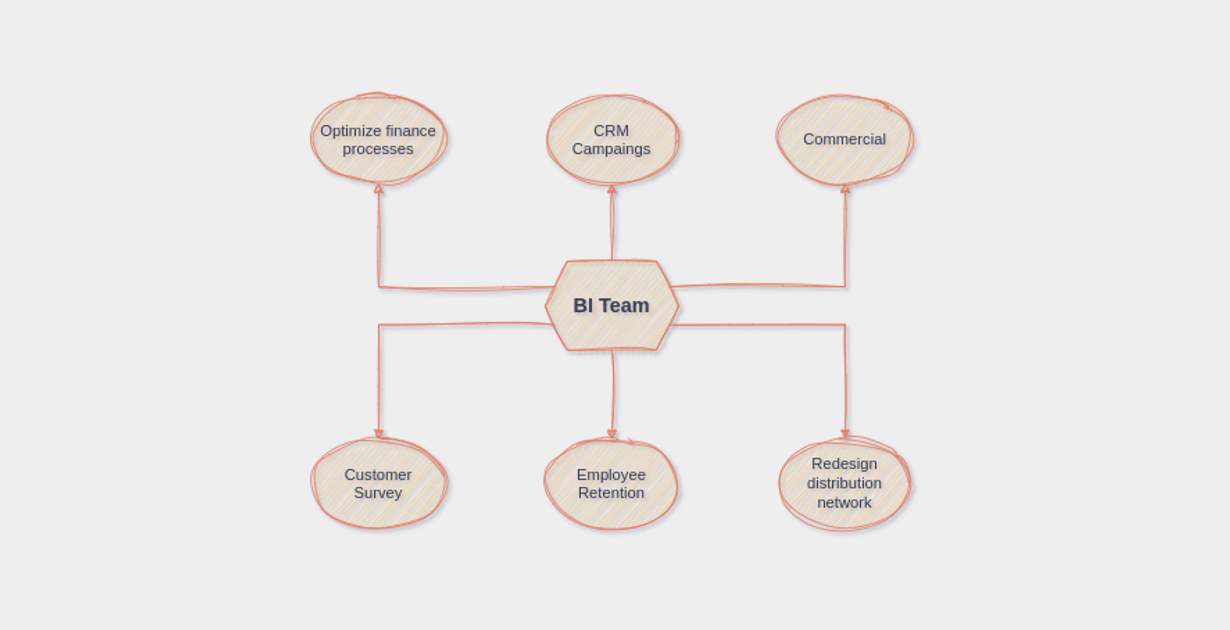
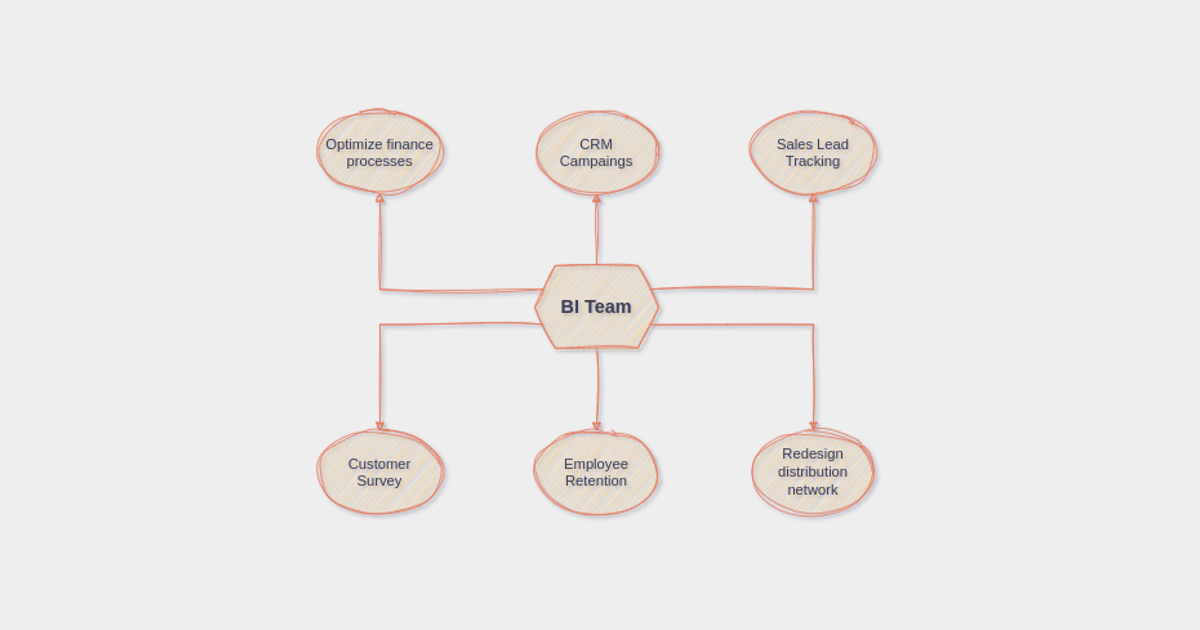
Fix 3rd post image and text

diff --git a/_site/assets/js/lunr/lunr-store.js b/_site/assets/js/lunr/lunr-store.js
@@ -12,7 +12,7 @@ var store = [{
         "teaser": null
       },{
         "title": "Increasing the reputation of Business Intelligence teams within an organization",
-        "excerpt":"Business intelligence (BI) teams play a crucial role in helping organizations make informed decisions and achieve their goals. However, establishing and maintaining a strong BI team can be challenging. Here are a few basic tips for establishing and increasing the reputation of BI teams within an organization:   Clearly define the team’s mandate and responsibilities  It is important that the BI team’s mandate and responsibilities are clearly defined and understood by all stakeholders. This will help the team focus on its core objectives and deliver value to the organization. It can play cruial role to communicate efficiently the mission of the team within the organization.           Example: The BI team’s mandate might be to act as a data hub and support initiatives regardless of teams invloved. Alternatively, it can support specific team(s) because of complex data or lack of analysis skills.   Build strong relationships with other teams  BI teams often work with a variety of teams within an organization, such as sales, marketing, and operations. Building strong relationships with these teams can help the BI team understand their needs and priorities, and ensure that their work is aligned with the organization’s goals.           Clearly communicate the value of the business intelligence team’s work: Make sure other teams understand how the insights and data provided by the team can help them achieve their goals and make better decisions.            Foster collaboration: Encourage members of the team to work closely with other teams on projects and initiatives. This will help build trust and understanding between the teams.            Be responsive to other teams’ needs: Show that the team is responsive to the needs of other teams by quickly addressing their requests for data and insights.            Share knowledge: Share the knowledge and skills of the team with other teams. This will help other teams become more self-sufficient in using data and insights to support their work.            Be transparent: Share the team’s process and methodologies to gather, analyze, and present data. This will help other teams understand the context and limitations of the data they are working with.            Encourage feedback: Encourage other teams to give feedback on the work of the BI team. This will help to improve and better serve the needs of the organization.            Hold regular meetings: Hold regular meetings between your team and other teams to discuss upcoming projects, share progress and results, and address any concerns or issues.            Show results and celebrate: Share the results and impact of the business intelligence team’s work with the rest of the organization. This will help other teams see the value of the work that the BI team does and how we work together to achieve shared goals.       Foster a culture of continuous learning  BI teams should be committed to staying up-to-date with the latest technologies and best practices. Encouraging team members to attend conferences, workshops, and training sessions can help the team stay at the forefront of the field.           Encourage cross-training: Encourage members to learn about the work of other teams, and vice versa. This will help build understanding and appreciation for the work of different teams and the skills they bring to the table.            Create opportunities for learning: Set up regular training sessions, workshops or seminars where BI staff can share their expertise with other teams, or where other teams can share their knowledge with them.            Create a mentorship program: Set up a mentorship program where the BI team can mentor less experienced members of other teams, and vice versa. This will help build trust and understanding between team members.            Encourage experimentation: Encourage the team to experiment with new technologies, techniques, and methods. This will help everyone learn and grow.            Share best practices: Share best practices and lessons learned either between team members or other teams. This will help everyone learn from the successes and failures of others.            Create a learning culture: Create a culture of continuous learning by encouraging everyone to take initiative and take ownership of their own learning.            Make use of modern learning technologies: Encourage the use of online resources and digital learning platforms to access training, tutorials and other educational materials.            Celebrate success: Recognize and celebrate the successes of both BI and other teams and how they have grown and developed through learning. Retro sessions are a great way to measure the progress.            Use data to drive learning: Encourage the use of data and analytics to measure the effectiveness of learning and training programs, and use this information to guide future learning initiatives.            Lead by example: Lead by example and demonstrate the importance of continuous learning and professional development in your own work.       Deliver value  The most effective way to increase the reputation of a BI team is to consistently deliver value to the organization. This means providing insights and recommendations that drive meaningful business outcomes.           Lead by example: Lead by example and demonstrate the importance of data-driven decision making and collaboration in your own work.            Understand the business: Take the time to understand the business goals, objectives, and strategies of the organization. This will help you to provide insights and data that are directly relevant to the business.            Provide actionable insights: Provide insights and data that are actionable, meaning they can be used to make decisions and take actions that will drive the business forward.            Be timely: Provide insights and data in a timely manner, so that they can be used to support decision-making and inform the direction of the business.            Communicate effectively: Communicate the insights and data provided by the BI team in a clear and concise manner, so that they can be easily understood and acted upon by decision-makers.            Use the right tools: Use the right tools and technologies to collect, analyze, and present data. This will help to deliver insights and data in an efficient and effective manner.            Be flexible: Be flexible and responsive to changing business needs and priorities. In this way, you can deliver value to the business in a timely and effective manner.            Measure and report on the results: Measure and report on the results of the BI team’s work in terms of how it has helped the business to achieve its goals and objectives.            Collaborate with other teams: Collaborate with other teams within the organization to understand their data needs and how the business intelligence team can support them to achieve their objectives.            Continuously improve: Continuously improve the business intelligence team’s processes and methods to ensure they are delivering the most value to the business.       Example: A manufacturing company is experiencing high costs and inefficiencies in their production process. The team can collaborate with stakeholders and recommend:   • Specific types of equipment or automation that have been proven to reduce downtime, increase production output, and improve efficiency.  • Implement new scheduling system to reduce inventory and increase efficiency or a new capacity planning system to optimize production schedules.  • Implement a data-driven approach: The team could recommend implementing a data-driven approach to production, where decision-making is based on data analysis, rather than just experience.  • Identify key performance indicators such as machine downtime, labor costs, and production output, and track progress against these metrics over time to measure the effectiveness of the implemented changes.  ","categories": [],
+        "excerpt":"Business intelligence (BI) teams play a crucial role in helping organizations make informed decisions and achieve their goals. However, establishing and maintaining a strong BI team can be challenging. Here are a few basic tips for establishing and increasing the reputation of BI teams within an organization:   Clearly define the team’s mandate and responsibilities  It is important that the BI team’s mandate and responsibilities are clearly defined and understood by all stakeholders. This will help the team focus on its core objectives and deliver value to the organization. It can play significant role to communicate efficiently the mission of the team within the organization.           Example: The BI team’s mandate might be to act as a data hub and support initiatives regardless of teams invloved. Alternatively, it can support specific team(s) because of complex data or lack of analysis skills.   Build strong relationships with other teams  BI teams often work with a variety of teams within an organization, such as sales, marketing, and operations. Building strong relationships with these teams can help the BI team understand their needs and priorities, and ensure that their work is aligned with the organization’s goals.           Clearly communicate the value of the business intelligence team’s work: Make sure other teams understand how the insights and data provided by the team can help them achieve their goals and make better decisions.            Foster collaboration: Encourage members of the team to work closely with other teams on projects and initiatives. This will help build trust and understanding between the teams.            Be responsive to other teams’ needs: Show that the team is responsive to the needs of other teams by quickly addressing their requests for data and insights.            Share knowledge: Share the knowledge and skills of the team with other teams. This will help other teams become more self-sufficient in using data and insights to support their work.            Be transparent: Share the team’s process and methodologies to gather, analyze, and present data. This will help other teams understand the context and limitations of the data they are working with.            Encourage feedback: Encourage other teams to give feedback on the work of the BI team. This will help to improve and better serve the needs of the organization.            Hold regular meetings: Hold regular meetings between your team and other teams to discuss upcoming projects, share progress and results, and address any concerns or issues.            Show results and celebrate: Share the results and impact of the business intelligence team’s work with the rest of the organization. This will help other teams see the value of the work that the BI team does and how we work together to achieve shared goals.       Foster a culture of continuous learning  BI teams should be committed to staying up-to-date with the latest technologies and best practices. Encouraging team members to attend conferences, workshops, and training sessions can help the team stay at the forefront of the field.           Encourage cross-training: Encourage members to learn about the work of other teams, and vice versa. This will help build understanding and appreciation for the work of different teams and the skills they bring to the table.            Create opportunities for learning: Set up regular training sessions, workshops or seminars where BI staff can share their expertise with other teams, or where other teams can share their knowledge with them.            Create a mentorship program: Set up a mentorship program where the BI team can mentor less experienced members of other teams, and vice versa. This will help build trust and understanding between team members.            Encourage experimentation: Encourage the team to experiment with new technologies, techniques, and methods. This will help everyone learn and grow.            Share best practices: Share best practices and lessons learned either between team members or other teams. This will help everyone learn from the successes and failures of others.            Create a learning culture: Create a culture of continuous learning by encouraging everyone to take initiative and take ownership of their own learning.            Make use of modern learning technologies: Encourage the use of online resources and digital learning platforms to access training, tutorials and other educational materials.            Celebrate success: Recognize and celebrate the successes of both BI and other teams and how they have grown and developed through learning. Retro sessions are a great way to measure the progress.            Use data to drive learning: Encourage the use of data and analytics to measure the effectiveness of learning and training programs, and use this information to guide future learning initiatives.            Lead by example: Lead by example and demonstrate the importance of continuous learning and professional development in your own work.       Deliver value  The most effective way to increase the reputation of a BI team is to consistently deliver value to the organization. This means providing insights and recommendations that drive meaningful business outcomes.           Lead by example: Lead by example and demonstrate the importance of data-driven decision making and collaboration in your own work.            Understand the business: Take the time to understand the business goals, objectives, and strategies of the organization. This will help you to provide insights and data that are directly relevant to the business.            Provide actionable insights: Provide insights and data that are actionable, meaning they can be used to make decisions and take actions that will drive the business forward.            Be timely: Provide insights and data in a timely manner, so that they can be used to support decision-making and inform the direction of the business.            Communicate effectively: Communicate the insights and data provided by the BI team in a clear and concise manner, so that they can be easily understood and acted upon by decision-makers.            Use the right tools: Use the right tools and technologies to collect, analyze, and present data. This will help to deliver insights and data in an efficient and effective manner.            Be flexible: Be flexible and responsive to changing business needs and priorities. In this way, you can deliver value to the business in a timely and effective manner.            Measure and report on the results: Measure and report on the results of the BI team’s work in terms of how it has helped the business to achieve its goals and objectives.            Collaborate with other teams: Collaborate with other teams within the organization to understand their data needs and how the business intelligence team can support them to achieve their objectives.            Continuously improve: Continuously improve the business intelligence team’s processes and methods to ensure they are delivering the most value to the business.       Example: A manufacturing company is experiencing high costs and inefficiencies in their production process. The team can collaborate with stakeholders and recommend:   • Specific types of equipment or automation that have been proven to reduce downtime, increase production output, and improve efficiency.  • Implement new scheduling system to reduce inventory and increase efficiency or a new capacity planning system to optimize production schedules.  • Implement a data-driven approach: The team could recommend implementing a data-driven approach to production, where decision-making is based on data analysis, rather than just experience.  • Identify key performance indicators such as machine downtime, labor costs, and production output, and track progress against these metrics over time to measure the effectiveness of the implemented changes.  ","categories": [],
         "tags": ["bi"],
         "url": "/Increasing-the-reputation-of-Business-Intelligence-teams-within-an-organization/",
         "teaser": null

diff --git a/_posts/2023-01-14-Increasing-the-reputation-of-Business-Intelligence-teams-within-an-organization.md b/_posts/2023-01-14-Increasing-the-reputation-of-Business-Intelligence-teams-within-an-organization.md
@@ -17,7 +17,7 @@ excerpt: "Business intelligence (BI) teams play a crucial role in helping organi
 Business intelligence (BI) teams play a crucial role in helping organizations make informed decisions and achieve their goals. However, establishing and maintaining a strong BI team can be challenging. Here are a few basic tips for establishing and increasing the reputation of BI teams within an organization:
 
 ### Clearly define the team's mandate and responsibilities
-It is important that the BI team's mandate and responsibilities are clearly defined and understood by all stakeholders. This will help the team focus on its core objectives and deliver value to the organization. It can play cruial role to communicate efficiently the mission of the team within the organization. 
+It is important that the BI team's mandate and responsibilities are clearly defined and understood by all stakeholders. This will help the team focus on its core objectives and deliver value to the organization. It can play significant role to communicate efficiently the mission of the team within the organization. 
 
 <figure class="half">
   <img src="/assets/images/post_images/3. bi_reputation/bi_structure-initiative.png">
